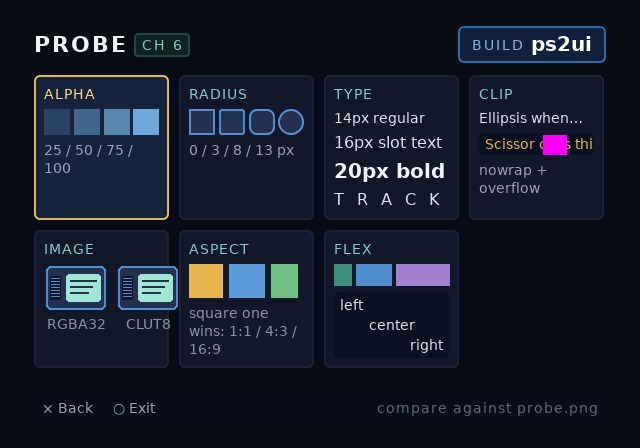
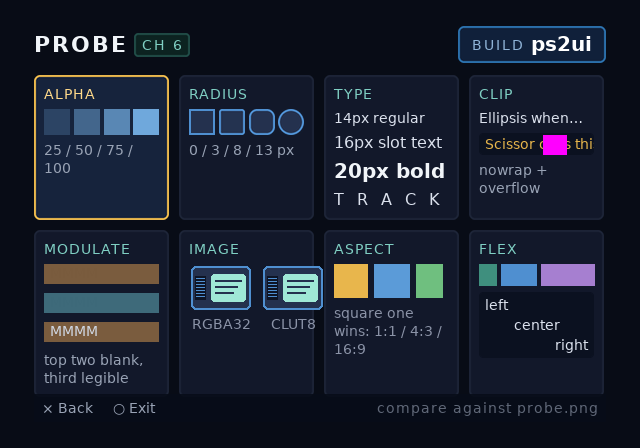
Steps 4 and 5: text that must vanish, and the lint exemption it needs
Both steps used to read "look at the text and decide whether the
brightness seems right", which is the failure mode that cost the step 2
probe three rewrites. Measured on the real photographs, references of
#8c0784, #c503c1, #fd00fd and #ff00ff all came back within ten units of
each other -- a panel and a phone camera cannot answer a question about
shade.

Inverted: paint text the same colour as the block behind it. A correct
console renders nothing. "Can you see letters here" survives any
exposure, angle or panel. Two vanish rows in unrelated colours so one
coincidence cannot read as a pass, plus a deliberately unmatched third
row that MUST be legible -- without it, "no text" and "this cell draws
no text" are the same observation.

Building it turned up a fifth instrument that could not fail, and then
a sixth.

The blocks first carried border-radius, which bakes them as nine-patch
quads -- TEXTURED, reaching the framebuffer through TEX MODULATE
exactly like the glyphs on top. A modulate-domain error would have
scaled block and text by the same factor, the text would have vanished
anyway, and the cell would have passed on broken hardware. Square
corners keep the block an untextured QUAD so the two arrive by
different paths, and only agreement between them hides the text.

Then the check written to fence that was itself dead: it looked for a
TEXQUAD at the block's own 115px width, which a nine-patch never emits
[…]

diff --git a/examples/channel6/ui/channel6.css b/examples/channel6/ui/channel6.css
@@ -416,6 +416,68 @@ h1 {
   background: #ff00ff;
 }
 
+/* Bring-up steps 4 and 5, asked as a question a camera can answer.
+ *
+ * Both steps used to read "look at the text and decide whether the
+ * brightness seems right", which is the failure mode that cost the
+ * step 2 probe three rewrites: it wants a measurement, and a handheld
+ * photograph of a glossy panel cannot give one. Measured on the real
+ * photographs, references of #8c0784, #c503c1, #fd00fd and #ff00ff all
+ * came back within ten units of each other.
+ *
+ * Invert it. Paint text the SAME colour as the block behind it. On a
+ * correct console the text is invisible -- not "about right", gone.
+ * "Can you see letters here" survives any exposure, angle or panel.
+ *
+ *   rows 1 and 2 legible -> step 4 or 5 is broken
+ *   row 3 NOT legible    -> void run; this cell cannot show you
+ *                           anything and rows 1-2 prove nothing
+ *
+ * Which of the two steps it is comes from the direction. Text brighter
+ * than its block means the tint is not being applied at all and glyphs
+ * are rendering at raw atlas white -- step 4, GSTEXTURE::Function, or
+ * an unintended PS2UI_GSKIT_HAS_FUNCTION=0 build. Text merely the wrong
+ * shade means the tint applied in the wrong domain -- step 5, the
+ * 0x80-identity modulate rule, which the previewer structurally cannot
+ * catch because it normalises by 255.
+ *
+ * Two vanish rows rather than one, in unrelated colours, so a single
+ * lucky coincidence cannot read as a pass. 'MMMM' because a heavy
+ * repeated glyph maximises inked area: the more ink, the louder any
+ * mismatch. */
+.vanish {
+  height: 20px;
+  padding: 0 6px;
+  margin-bottom: 3px;
+  /* NO border-radius, and that is the whole test.
+   *
+   * A rounded rect bakes as a nine-patch, which is TEXTURED -- the
+   * colour arrives from a texture through TEX MODULATE, exactly like
+   * the glyphs on top of it. A modulate-domain error would then scale
+   * block and text by the same factor, the text would vanish anyway,
+   * and this cell would report a pass on broken hardware.
+   *
+   * Square corners keep the block an untextured QUAD in full-range
+   * RGB. Now the block and the glyphs reach the framebuffer by
+   * different paths, and only agreement between those paths makes the
+   * text disappear. check.py asserts the block is untextured, because
+   * one `border-radius: 3px` would silently undo it. */
+}
+
+.vanish-a { background: #7a5c3e; }
+.vanish-b { background: #3e6a7a; }
+
+.vanish p { font-size: 14px; }
+
+/* Matched to their blocks: these must disappear. */
+.ink-a { color: #7a5c3e; }
+.ink-b { color: #3e6a7a; }
+
+/* Deliberately unmatched: this one MUST be legible. Without it, "I see
+ * no text" and "this cell renders no text at all" are the same
+ * observation, and rows 1 and 2 would be unfalsifiable. */
+.ink-c { color: #d0d8e4; }
+
 /* Images: identical source, PSMCT32 on the left, PSMT8+CLUT right. */
 .img-row { flex-direction: row; align-items: center; gap: 8px; }
 .img-col {

diff --git a/packages/layout/src/box.js b/packages/layout/src/box.js
@@ -29,6 +29,7 @@ export class Box {
     this.image = null;          // for <img>: { src, w, h } (intrinsic px)
     this.slot = null;           // for data-slot: { name, capacity }
     this.keep = false;          // data-keep: exempt from the dead-geometry trim
+    this.nocontrast = false;    // data-nocontrast: exempt from the contrast lint
     // Filled by the solver:
     this.x = 0; this.y = 0; this.width = 0; this.height = 0;
     this.lines = null;          // laid-out text lines
@@ -82,6 +83,22 @@ export function buildBoxTree(el, sheet, parentStyle, parentFocusStyle, warnings,
   // cannot draw, so that a television showing it means the scissor is
   // not being applied.
   box.keep = 'data-keep' in el.attrs;
+
+  // data-nocontrast: exempt this element's text from the contrast lint.
+  //
+  // Same shape of exemption as data-keep, for the same reason. The trim
+  // deletes geometry that cannot draw, and data-keep exists for the one
+  // case where a quad that cannot draw IS the instrument. The contrast
+  // rule warns about text a viewer cannot read, and this exists for the
+  // one case where text a viewer cannot read is the instrument: bring-up
+  // steps 4 and 5 paint glyphs the exact colour of the block behind them,
+  // so that a correct console renders nothing and "can you see letters
+  // here" replaces a judgement of shade that no photograph can support.
+  //
+  // Deliberately scoped to the contrast rule alone rather than a blanket
+  // data-nolint. A general escape hatch gets reached for; a rule-specific
+  // one has to be argued for each time.
+  box.nocontrast = 'data-nocontrast' in el.attrs;
   if ('data-slot' in el.attrs) {
     // Dynamic text (backlog F2): the element's text is a build-time
     // placeholder; the console composes the real string at runtime
@@ -149,6 +166,11 @@ export function buildBoxTree(el, sheet, parentStyle, parentFocusStyle, warnings,
   for (const child of el.children) {
     if (child.type === 'text') {
       const tbox = new Box('text', el, anonymousTextStyle(style), null);
+      // The lines live on this anonymous child, not on the element box,
+      // so the exemption has to come down with them or it never reaches
+      // the command that carries the colour. data-keep needs no such
+      // hop: rects are emitted from the element box itself.
+      tbox.nocontrast = box.nocontrast;
       // Text inside a focus scope needs the focus-state text style too.
       tbox.focusStyle = focusStyle !== style ? anonymousTextStyle(focusStyle) : tbox.style;
       tbox.text = child.text;

diff --git a/packages/layout/test/layout.test.js b/packages/layout/test/layout.test.js
@@ -250,6 +250,41 @@ test('slots: letter-spacing travels with the slot descriptor', () => {
   assert.equal(plain.slots[0].letterSpacing, 0);
 });
 
+test('lint: data-nocontrast exempts text whose invisibility is the point', () => {
+  // Bring-up steps 4 and 5 paint glyphs the exact colour of the block
+  // behind them, so a correct console renders nothing and the operator
+  // answers "can you see letters here" instead of judging a shade no
+  // photograph can convey. The contrast rule is right to hate that, and
+  // would emit a permanent false alarm on every build -- which is how a
+  // linter teaches people to skim past it.
+  const html = '<div class="blk"><p class="ink">MMMM</p></div>';
+  const css = '.blk { background: #7a5c3e; height: 20px; } '
+            + '.ink { color: #7a5c3e; font-size: 14px; }';
+
+  // Without the attribute the rule must fire, or the test below proves
+  // nothing: an exemption that silences a warning nobody was raising is
+  // not an exemption.
+  const loud = compileCss(html, css);
+  assert.ok(loud.warnings.some((w) => w.startsWith('contrast:')),
+            'identical ink and block must trip the contrast rule');
+
+  const quiet = compileCss(
+    '<div class="blk"><p class="ink" data-nocontrast>MMMM</p></div>', css);
+  assert.equal(
+    quiet.warnings.filter((w) => w.startsWith('contrast:')).length, 0,
+    'data-nocontrast must silence it');
+
+  // Scoped to the one rule. A blanket data-nolint gets reached for;
+  // this one has to be argued for each time, so prove the others still
+  // speak through it.
+  const tiny = compileCss(
+    '<div class="blk"><p class="ink" data-nocontrast>MMMM</p></div>',
+    '.blk { background: #7a5c3e; height: 20px; } '
+    + '.ink { color: #7a5c3e; font-size: 9px; }');
+  assert.ok(tiny.warnings.some((w) => w.startsWith('min-font-size:')),
+            'other rules must still fire on an exempted element');
+});
+
 test('lint: contrast never composites mutually exclusive focus states', () => {
   // `:focus` is a paint-only delta -- one command list carries both
   // states and the runtime draws whichever matches. A node's focused

diff --git a/packages/layout/src/lint.js b/packages/layout/src/lint.js
@@ -233,7 +233,12 @@ export function lintDocument(commands, focusGraph, options = {}) {
         chain.push(r.fill);
       }
     }
-    if (chain.length && cmd.color[3] > 0) {
+    // data-nocontrast: text whose unreadability is the point. Bring-up
+    // steps 4 and 5 paint glyphs the exact colour of their block so a
+    // correct console shows nothing; warning about that every build
+    // would be four permanent false alarms, and a linter with permanent
+    // false alarms is a linter people learn to skim past.
+    if (chain.length && cmd.color[3] > 0 && !cmd.nocontrast) {
       const seeThrough = transmittance(chain) > 0;
       const backdrops = seeThrough ? BACKDROP_EXTREMES : [[0, 0, 0]];
       let worst = Infinity;

diff --git a/examples/channel6/ui/probe.html b/examples/channel6/ui/probe.html
@@ -56,6 +56,14 @@
       <p class="note">nowrap + overflow</p>
     </div>
 
+    <div class="cell" id="probe-modulate" focusable>
+      <p class="cell-label">MODULATE</p>
+      <div class="vanish vanish-a"><p class="ink-a" data-nocontrast>MMMM</p></div>
+      <div class="vanish vanish-b"><p class="ink-b" data-nocontrast>MMMM</p></div>
+      <div class="vanish vanish-a"><p class="ink-c">MMMM</p></div>
+      <p class="note">top two blank, third legible</p>
+    </div>
+
     <div class="cell" id="probe-image" focusable>
       <p class="cell-label">IMAGE</p>
       <div class="img-row">

diff --git a/packages/layout/src/paint.js b/packages/layout/src/paint.js
@@ -79,6 +79,7 @@ function emitTextLines(cmds, box, paint, state) {
       color: paint.color,
       state,
       focusId: box.focusId,
+      ...(box.nocontrast ? { nocontrast: true } : {}),
     });
   }
 }

diff --git a/examples/channel6/check.py b/examples/channel6/check.py
@@ -29,6 +29,7 @@ import sys
 
 from ps2ui_bake.quads import (FOCUS_NONE, OP_QUAD, OP_SCISSOR_PUSH,
                                OP_TEXQUAD)
+from ps2ui_bake.rounding import css_channel_to_gs
 from ps2ui_bake import gs
 from ps2ui_bake.uib import FEAT_DYNAMIC_TEXT, read_uib
 
@@ -44,7 +45,8 @@ GAMES_FOCUS = [
 ]
 PROBE_FOCUS = [
     "probe-alpha", "probe-radius", "probe-type",
-    "probe-clip", "probe-image", "probe-aspect", "probe-flex",
+    "probe-clip", "probe-modulate", "probe-image", "probe-aspect",
+    "probe-flex",
 ]
 # name -> capacity, the buffer the runtime is allowed to write into.
 GAMES_SLOTS = {
@@ -183,6 +185,58 @@ def main(path: str) -> int:
                  if r.op == OP_QUAD and (r.w == 1 or r.h == 1)]
     check(not hairlines,
           f"no 1px quads to shimmer on an interlaced CRT ({len(hairlines)} found)")
+
+    # --- bring-up steps 4 and 5: the vanish rows ---------------------
+    #
+    # Text painted the same colour as the block behind it, so a correct
+    # console renders nothing. That only tests anything while the two
+    # colours actually match, and they match in different domains: the
+    # block is a QUAD in full-range CSS RGB, the glyphs are a TEXQUAD in
+    # the GS 0x80-identity modulate domain. A CSS edit that nudged
+    # either would leave text permanently legible and read as a
+    # hardware fault forever.
+    #
+    # The third row must NOT match, or "I see no text" and "this cell
+    # draws no text" become the same observation and the first two rows
+    # prove nothing.
+    VANISH = ((0x7a, 0x5c, 0x3e), (0x3e, 0x6a, 0x7a))
+    CONTROL_INK = (0xd0, 0xd8, 0xe4)
+
+    for css in VANISH:
+        want = tuple(css_channel_to_gs(c) for c in css)
+        hexc = "#%02x%02x%02x" % css
+        # The block must be an untextured QUAD. A border-radius would
+        # make it a nine-patch, which reaches the framebuffer through
+        # TEX MODULATE just like the glyphs -- a domain error would then
+        # scale both by the same factor, the text would vanish anyway,
+        # and this cell would pass on broken hardware. The two must
+        # arrive by different paths or the comparison is vacuous.
+        # Asserting OP_QUAD *is* the untextured assertion: a rounded
+        # block bakes as nine textured pieces and no flat quad of this
+        # colour survives at all, so this check fires on exactly that.
+        #
+        # A separate "no TEXQUAD covers the block" check lived here for
+        # one commit and could never fail -- it matched the block's own
+        # 115px-wide geometry, which a nine-patch never emits, since it
+        # splits into corners and edges. Deleted rather than repaired:
+        # the property is already covered, and a check that cannot fail
+        # is worse than no check, because it reads like coverage.
+        block = [r for r in uib.records
+                 if r.op == OP_QUAD and r.rgba[:3] == css]
+        ink = [r for r in uib.records
+               if r.op == OP_TEXQUAD and r.rgba[:3] == want]
+        check(bool(block) and bool(ink),
+              f"vanish row {hexc}: untextured block and tinted glyphs "
+              f"both baked ({len(block)} block, {len(ink)} glyph)")
+
+    want_ctl = tuple(css_channel_to_gs(c) for c in CONTROL_INK)
+    ctl = [r for r in uib.records
+           if r.op == OP_TEXQUAD and r.rgba[:3] == want_ctl]
+    check(bool(ctl), "the control row's glyphs are baked")
+    check(want_ctl not in [tuple(css_channel_to_gs(c) for c in v)
+                           for v in VANISH],
+          "and its ink does not match either block, so it must be "
+          "legible when the vanish rows are not")
 
     # --- bring-up step 7's instrument (data-keep) --------------------
     #

diff --git a/docs/format-ir.md b/docs/format-ir.md
@@ -78,6 +78,14 @@ One command per laid-out line. `x`/`y` is the top-left of the glyph box
 }
 ```
 
+An optional `"nocontrast": true` may appear, from `data-nocontrast` on
+the element. It is a **lint-only** flag: the baker ignores it, and it
+exists so text whose invisibility is the instrument — bring-up steps 4
+and 5 paint glyphs the exact colour of the block behind them — does not
+emit a permanent contrast warning on every build. Scoped to that one
+rule rather than a blanket opt-out, so it has to be argued for each
+time it is used. Absent means false, like `keep` on a rect.
+
 The string is already wrapped, ellipsized and positioned; the baker must
 not re-measure it, only advance the pen by the shared rounding rule
 `floor(units * size / 1000 + 0.5)` per glyph (see
